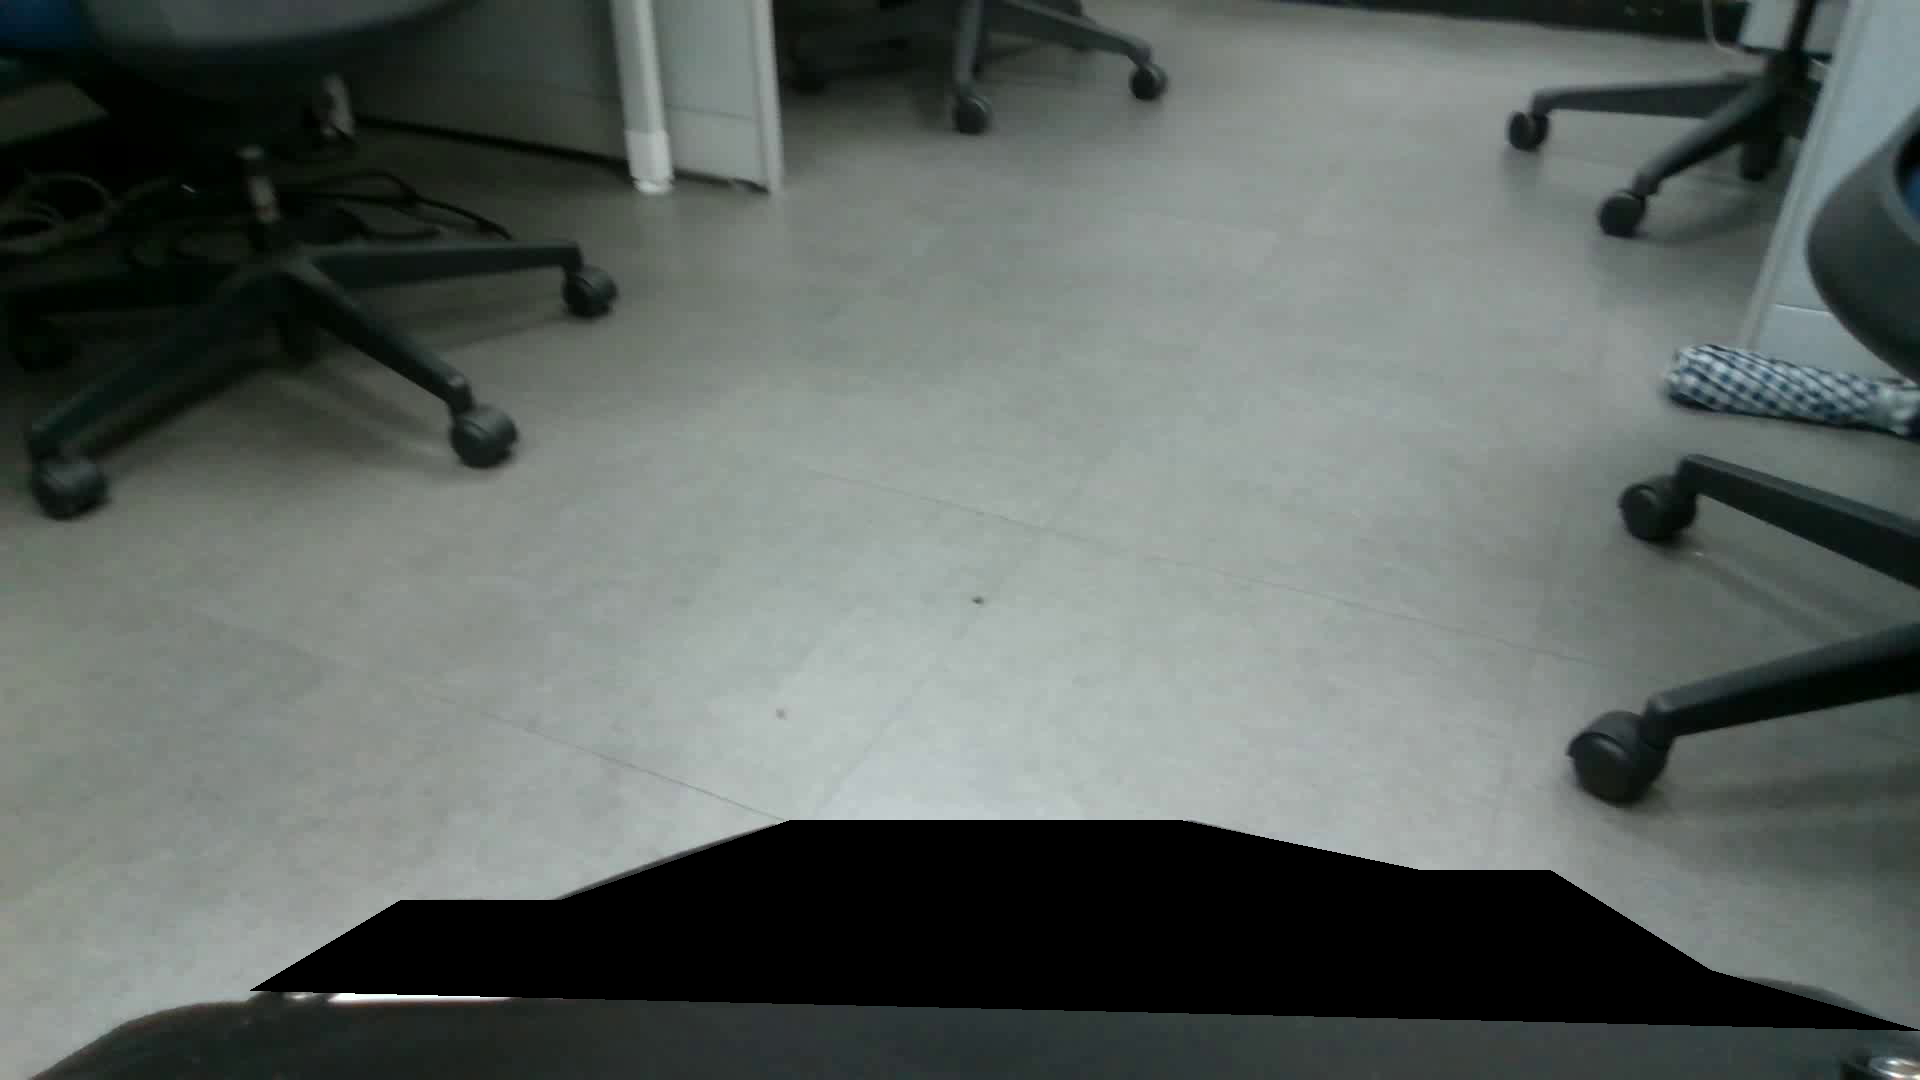
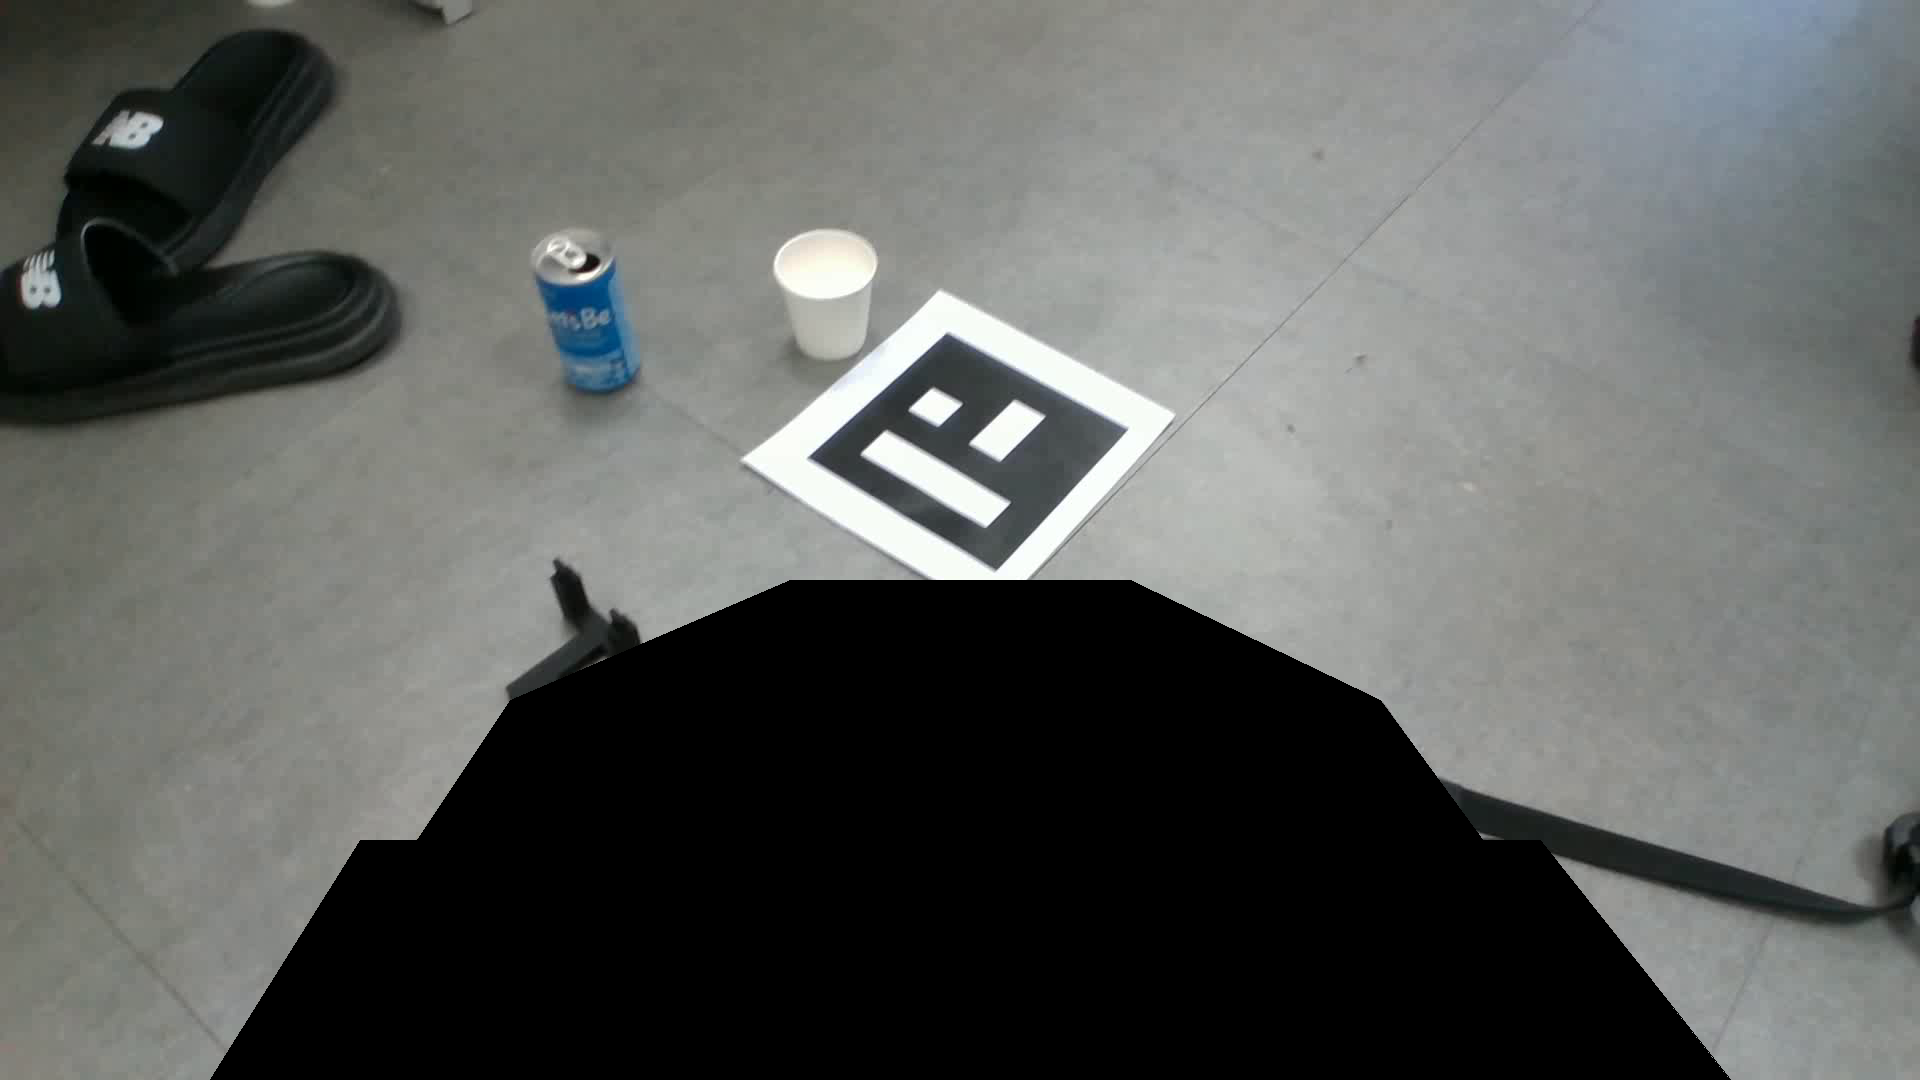
test

diff --git a/run_slam_pipeline.py b/run_slam_pipeline.py
@@ -16,14 +16,17 @@ import pathlib
 import click
 import subprocess
 
+
 # %%
 @click.command()
[email redacted]('session_dir', nargs=-1)
[email redacted]('-c', '--calibration_dir', type=str, default=None)
[email redacted]("session_dir", nargs=-1)
[email redacted]("-c", "--calibration_dir", type=str, default=None)
 def main(session_dir, calibration_dir):
-    script_dir = pathlib.Path(__file__).parent.joinpath('scripts_slam_pipeline')
+    script_dir = pathlib.Path(__file__).parent.joinpath("scripts_slam_pipeline")
     if calibration_dir is None:
-        calibration_dir = pathlib.Path(__file__).parent.joinpath('example', 'calibration')
+        calibration_dir = pathlib.Path(__file__).parent.joinpath(
+            "example", "calibration"
+        )
     else:
         calibration_dir = pathlib.Path(calibration_dir)
     assert calibration_dir.is_dir()
@@ -34,20 +37,14 @@ def main(session_dir, calibration_dir):
         # print("############## 00_preprocess #############")
         # script_path = script_dir.joinpath("00_preprocess.py")
         # assert script_path.is_file()
-        # cmd = [
-        #     'python', str(script_path),
-        #     str(session)
-        # ]
+        # cmd = ["python", str(script_path), str(session)]
         # result = subprocess.run(cmd)
         # assert result.returncode == 0, result
 
         # print("############## 01_0_extract_videos #############")
         # script_path = script_dir.joinpath("01_0_extract_videos.py")
         # assert script_path.is_file()
-        # cmd = [
-        #     'python', str(script_path),
-        #     str(session)
-        # ]
+        # cmd = ["python", str(script_path), str(session)]
         # result = subprocess.run(cmd)
         # assert result.returncode == 0, result
 
@@ -55,10 +52,7 @@ def main(session_dir, calibration_dir):
         # script_path = script_dir.joinpath("01_1_extract_realsense_imu.py")
         # print(f"{script_path=}")
         # assert script_path.is_file()
-        # cmd = [
-        #     'python', str(script_path),
-        #     str(session)
-        # ]
+        # cmd = ["python", str(script_path), str(session)]
         # result = subprocess.run(cmd)
         # assert result.returncode == 0
 
@@ -66,10 +60,7 @@ def main(session_dir, calibration_dir):
         # script_path = script_dir.joinpath("01_2_extract_depth_and_frames.py")
         # print(f"{script_path=}")
         # assert script_path.is_file()
-        # cmd = [
-        #     'python', str(script_path),
-        #     str(session)
-        # ]
+        # cmd = ["python", str(script_path), str(session)]
         # result = subprocess.run(cmd)
         # assert result.returncode == 0
 
@@ -78,38 +69,41 @@ def main(session_dir, calibration_dir):
         print("############# 02_create_map ###########")
         script_path = script_dir.joinpath("02_create_map.py")
         assert script_path.is_file()
-        demo_dir = session.joinpath('demos')
-        mapping_dir = demo_dir.joinpath('mapping')
+        demo_dir = session.joinpath("demos")
+        mapping_dir = demo_dir.joinpath("mapping")
         assert mapping_dir.is_dir()
-        map_path = mapping_dir.joinpath('map_atlas.osa')
+        map_path = mapping_dir.joinpath("map_atlas.osa")
         # if not map_path.is_file():
-        
+
         # if True:
         #     cmd = [
-        #         'python', str(script_path),
-        #         '--input_dir', str(mapping_dir),
-        #         '--map_path', str(map_path),
-        #         '--no_docker_pull',
+        #         "python",
+        #         str(script_path),
+        #         "--input_dir",
+        #         str(mapping_dir),
+        #         "--map_path",
+        #         str(map_path),
+        #         "--no_docker_pull",
         #     ]
         #     result = subprocess.run(cmd)
         #     assert result.returncode == 0, result
         #     assert map_path.is_file(), result
-        
+
         # return
 
-        # print("############# 03_batch_slam ###########")
-        # script_path = script_dir.joinpath("03_batch_slam.py")
-        # assert script_path.is_file()
-        # cmd = [
-        #     'python', str(script_path),
-        #     '--input_dir', str(demo_dir),
-        #     '--map_path', str(map_path),
-        #     '--no_docker_pull',
-        # ]
-        # result = subprocess.run(cmd)
-        # assert result.returncode == 0
-        
-        # return
+        print("############# 03_batch_slam ###########")
+        script_path = script_dir.joinpath("03_batch_slam.py")
+        assert script_path.is_file()
+        cmd = [
+            'python', str(script_path),
+            '--input_dir', str(demo_dir),
+            '--map_path', str(map_path),
+            '--no_docker_pull',
+        ]
+        result = subprocess.run(cmd)
+        assert result.returncode == 0
+
+        return
 
         # print("############# 04_detect_aruco ###########")
         # script_path = script_dir.joinpath("04_detect_aruco.py")
@@ -145,12 +139,10 @@ def main(session_dir, calibration_dir):
         print("############# 06_generate_dataset_plan ###########")
         script_path = script_dir.joinpath("06_generate_dataset_plan.py")
         assert script_path.is_file()
-        cmd = [
-            'python', str(script_path),
-            '--input', str(session)
-        ]
+        cmd = ["python", str(script_path), "--input", str(session)]
         result = subprocess.run(cmd)
         assert result.returncode == 0
+
 
 ## %%
 if __name__ == "__main__":

diff --git a/umi/common/cv_util_realsense.py b/umi/common/cv_util_realsense.py
@@ -218,12 +218,10 @@ def pixel_coords_to_canonical(pts, img_shape=RGB_IMG_SHAPE):
 
 def get_rgb_gripper_canonical_polygon():
     left_pts = (
-        (30, 1080),
-        (160, 990),
-        (250, 990),
-        (1820, 970),
-        (1920, 1030),
-        (1920, 1080),
+        (210, 1080),
+        (360, 840),
+        (1540, 840),
+        (1730, 1080),
     )
     
     resolution = RGB_IMG_SHAPE
@@ -237,15 +235,12 @@ def get_rgb_gripper_canonical_polygon():
 
 def get_rgb_finger_canonical_polygon():
     left_pts = (
-        (250, 990),
-        (400, 900),
-        (560, 900),
-        (790, 820),
-        (1180, 820),
-        (1420, 870),
-        (1550, 870),
-        (1710, 970),
-        (1920, 1030),
+        (410, 850),
+        (510, 700),
+        (790, 580),
+        (1130, 580),
+        (1380, 700),
+        (1490, 850),
     )
     
     resolution = RGB_IMG_SHAPE

diff --git a/helper/apply_slam_mask.py b/helper/apply_slam_mask.py
@@ -3,6 +3,7 @@ import numpy as np
 import os
 from pathlib import Path
 
+
 def create_masked_image(video_path, mask_path, output_path):
     cap = cv2.VideoCapture(video_path)
     if not cap.isOpened():
@@ -16,14 +17,18 @@ def create_masked_image(video_path, mask_path, output_path):
         return
     cap.release()
 
-    mask = cv2.imread(mask_path, cv2.IMREAD_GRAYSCALE) # Read the mask as grayscale
+    mask = cv2.imread(mask_path, cv2.IMREAD_GRAYSCALE)  # Read the mask as grayscale
     if mask is None:
         print(f"Error: Could not open or read mask file '{mask_path}'.")
         return
 
     if frame.shape[:2] != mask.shape[:2]:
-        print(f"Warning: Frame resolution ({frame.shape[:2]}) and mask resolution ({mask.shape[:2]}) are different. Resizing mask to fit frame size.")
-        mask = cv2.resize(mask, (frame.shape[1], frame.shape[0]), interpolation=cv2.INTER_NEAREST)
+        print(
+            f"Warning: Frame resolution ({frame.shape[:2]}) and mask resolution ({mask.shape[:2]}) are different. Resizing mask to fit frame size."
+        )
+        mask = cv2.resize(
+            mask, (frame.shape[1], frame.shape[0]), interpolation=cv2.INTER_NEAREST
+        )
 
     mask_inv = cv2.bitwise_not(mask)
 
@@ -32,17 +37,18 @@ def create_masked_image(video_path, mask_path, output_path):
     cv2.imwrite(output_path, img_bg)
     print(f"Masked image '{output_path}' created successfully.")
 
+
 if __name__ == "__main__":
-    # video_sample_path = "~/Desktop/study/universal_manipulation_interface/example_demo_session/demos/mapping/raw_video.mp4" 
-    video_sample_path = "~/Documents/test/1920_gripper_30hz.mp4"
+    # video_sample_path = "~/Desktop/study/universal_manipulation_interface/example_demo_session/demos/mapping/raw_video.mp4"
+    video_sample_path = "~/Desktop/study/universal_manipulation_interface/my_example_demo_session/demos/mapping/raw_video.mp4"
     video_sample_path = Path(video_sample_path).expanduser()
     video_sample_path = str(video_sample_path)
-    mask_sample_path = "./slam_mask.png" 
+    mask_sample_path = "./slam_mask.png"
     output_masked_path = "./masked.png"
 
     if not os.path.exists(video_sample_path):
         print(f"Error: Video file '{video_sample_path}' does not exist.")
     if not os.path.exists(mask_sample_path):
         print(f"Error: Mask file '{mask_sample_path}' does not exist.")
-    
+
     create_masked_image(video_sample_path, mask_sample_path, output_masked_path)

diff --git a/helper/create_mask.py b/helper/create_mask.py
@@ -19,21 +19,21 @@ import concurrent.futures
 from tqdm import tqdm
 import numpy as np
 import cv2
+
 # from umi.common.cv_util import draw_predefined_mask
-from umi.common.cv_util_realsense import (
-    draw_rgb_predefined_mask,
-    RGB_IMG_SHAPE
-)
+from umi.common.cv_util_realsense import draw_rgb_predefined_mask, RGB_IMG_SHAPE
+
 
 def main():
     current_file_path = pathlib.Path(__file__).resolve()
     current_dir = current_file_path.parent
     mask_write_path = current_dir.joinpath("slam_mask.png")
-    
+
     # slam_mask = np.zeros((2028, 2704), dtype=np.uint8)
     slam_mask = np.zeros(RGB_IMG_SHAPE, dtype=np.uint8)
     slam_mask = draw_rgb_predefined_mask(
-        slam_mask, color=255, mirror=False, gripper=False, finger=True)
+        slam_mask, color=255, mirror=False, gripper=True, finger=True
+    )
     cv2.imwrite(str(mask_write_path.absolute()), slam_mask)
 
     print(f"[INFO] create mask png")